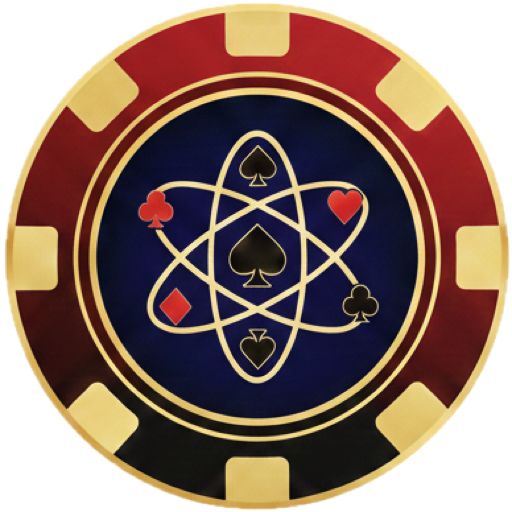
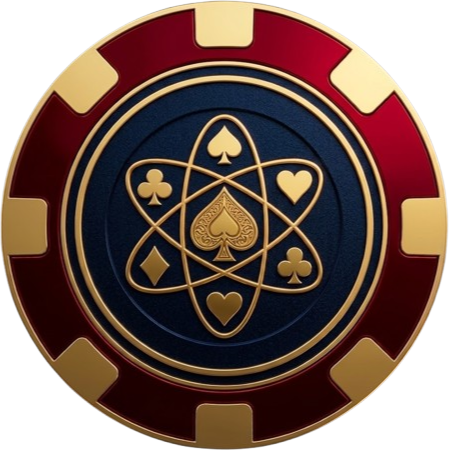
changed the back of the cards

diff --git a/client/src/components/PokerCard.tsx b/client/src/components/PokerCard.tsx
@@ -1,5 +1,5 @@
 import { motion } from "motion/react";
-import logoSrc from "../assets/logo-personnel.png";
+import cardBackSrc from "../assets/cards/back.png";
 
 /** Formes pour mode daltonien : ● Cœur, ◆ Carreau, ■ Trèfle, ▲ Pique */
 const SUIT_SHAPE: Record<string, string> = {
@@ -48,7 +48,7 @@ export function PokerCard({
   const shape = SUIT_SHAPE[suit.toLowerCase()] ?? "";
 
   // ==========================================
-  // 1. LE DOS DE LA CARTE (Design original gardé)
+  // 1. LE DOS DE LA CARTE
   // ==========================================
   if (faceDown) {
     const Wrapper = animated ? motion.div : "div";
@@ -68,22 +68,14 @@ export function PokerCard({
     return (
       <Wrapper
         {...(animProps as Record<string, unknown>)}
-        className={`${s.card} rounded-[10px] overflow-hidden shadow-xl
-          bg-gradient-to-br from-blue-800 via-blue-900 to-indigo-950
-          border-2 border-blue-700/60 relative
-          transition transform hover:scale-105 duration-200 ${className}`}
+        className={`${s.card} relative bg-transparent transition-transform duration-200 hover:scale-105 ${className}`}
       >
-        <div
-          className="absolute inset-0 opacity-30"
-          style={{
-            backgroundImage: `repeating-linear-gradient(45deg, transparent, transparent 6px, rgba(255,255,255,0.03) 6px, rgba(255,255,255,0.03) 7px)`,
-          }}
+        <img
+          src={cardBackSrc}
+          alt="Dos de carte"
+          className="h-full w-full object-contain"
+          draggable={false}
         />
-        <div className="absolute inset-[4px] rounded-lg border border-white/10" />
-        <div className="absolute inset-0 flex items-center justify-center">
-          <img src={logoSrc} alt="Dos de carte" className="w-1/2 h-1/2 object-contain opacity-50" />
-        </div>
-        <div className="absolute inset-0 rounded-[8px] border border-blue-400/20" />
       </Wrapper>
     );
   }
@@ -173,4 +165,3 @@ export function PokerCardSlot({ size = "md", className = "" }: { size?: CardSize
     />
   );
 }
-

diff --git a/client/src/components/PokerTable.tsx b/client/src/components/PokerTable.tsx
@@ -440,8 +440,8 @@ export function PokerTable({
                   {(player.isActive || actionLabel || player.isDealer || player.role === "SB" || player.role === "BB") && (
                     <div className="pointer-events-none absolute bottom-[calc(100%+0.35rem)] left-1/2 z-40 flex -translate-x-1/2 flex-col items-center gap-1">
                       {player.isActive && (
-                        <div className="inline-flex items-center gap-1 rounded-full border border-yellow-200/60 bg-yellow-300 px-2 py-1 text-[10px] font-black leading-none text-black shadow-[0_0_18px_rgba(250,204,21,0.45)] md:text-xs">
-                          <Clock className="h-3 w-3 animate-pulse" />
+                        <div className="inline-flex items-center gap-0.5 whitespace-nowrap rounded-full border border-yellow-200/55 bg-yellow-300 px-1.5 py-0.5 text-[8px] font-black leading-none text-black shadow-[0_0_12px_rgba(250,204,21,0.35)] md:text-[9px]">
+                          <Clock className="h-2.5 w-2.5 animate-pulse" />
                           {isHeroDisplay ? t("game.yourTurn") : t("game.theirTurn")}
                         </div>
                       )}
